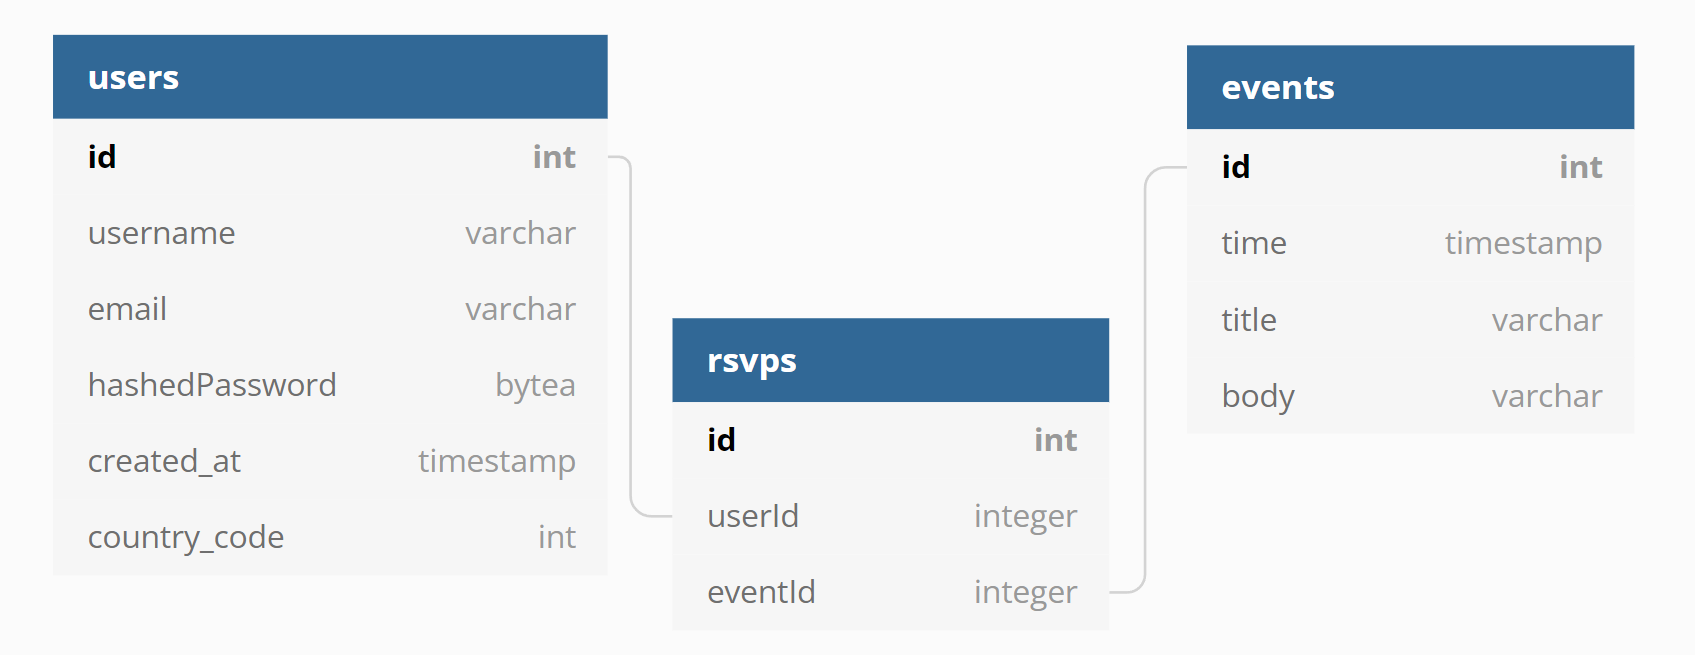
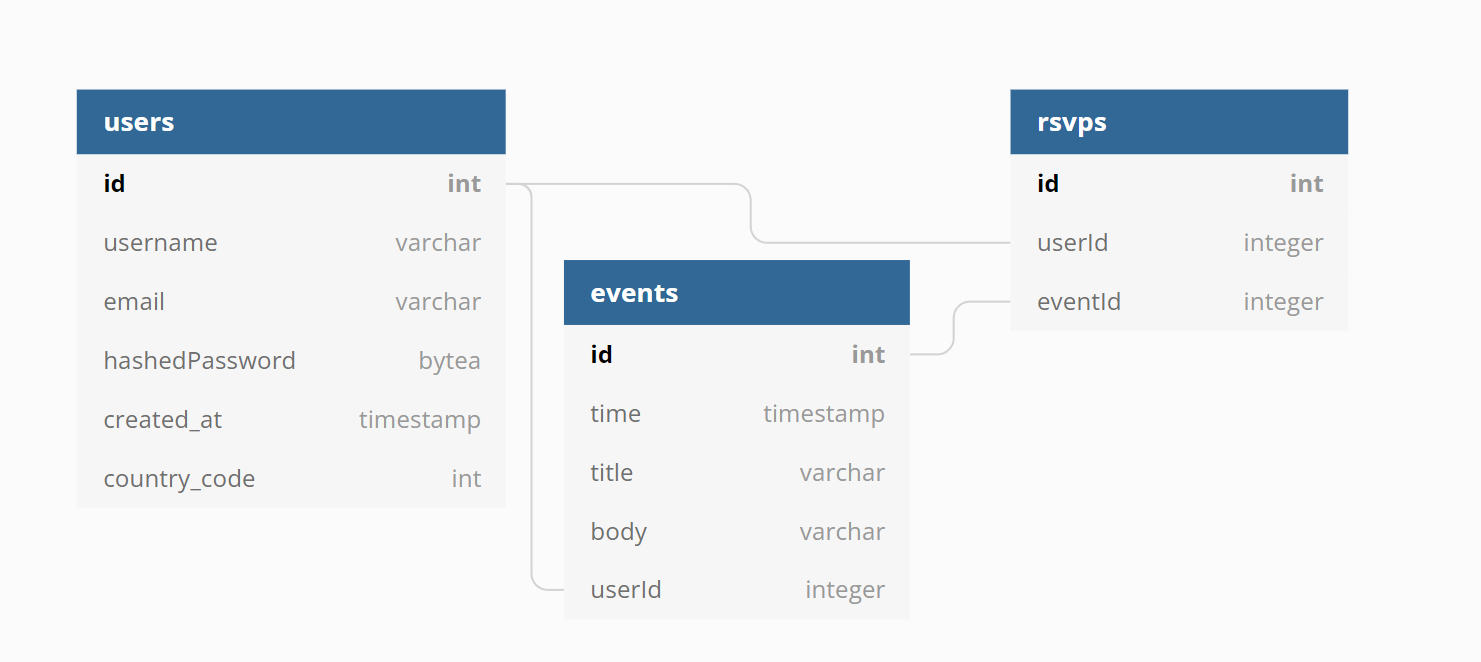
changed images folder db schema img

diff --git a/backend/db/models/event.js b/backend/db/models/event.js
@@ -7,6 +7,14 @@ module.exports = (sequelize, DataTypes) => {
     userId: DataTypes.INTEGER
   }, {});
 
+  Event.addEvent = async function ({ time, title, body, userId }) {
+    const { id } = this;
+    const event = Event.create({
+      time, title, body, userId: id
+    });
+    return event;
+  }
+
   Event.associate = function (models) {
     Event.belongsTo(models.User, { foreignKey: 'userId' });
     const columnMapping = {
